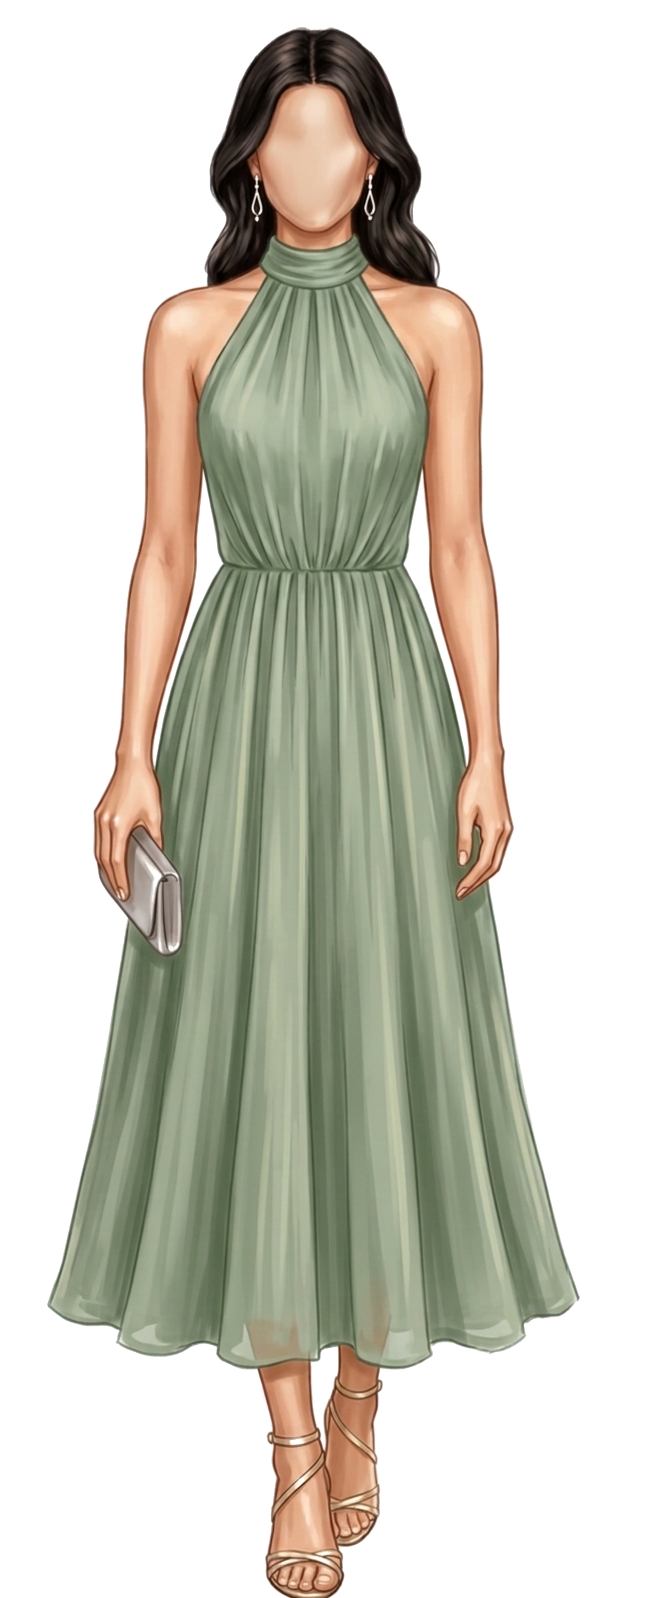
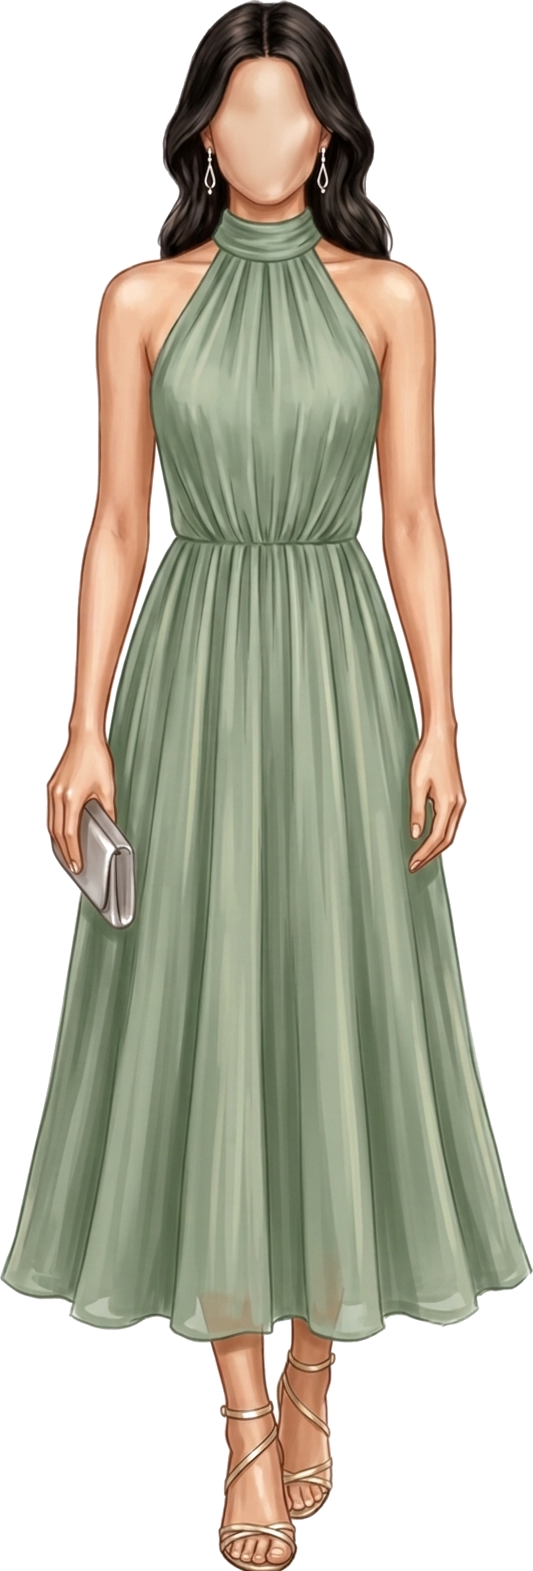
fix: figuras del dress code simetricas (recorte al contorno + altura fija)

diff --git a/index.html b/index.html
@@ -359,8 +359,8 @@ section > *{position:relative;z-index:1;}
 .dc-title{font-family:'Great Vibes',cursive;font-size:50px;color:var(--dark);text-align:center;line-height:1.05;margin-bottom:8px;}
 .dc-subtitle{font-family:'Cormorant Garamond',serif;font-style:italic;font-weight:600;font-size:16px;letter-spacing:5px;text-transform:uppercase;color:var(--accent);text-align:center;margin-bottom:30px;}
 .dc-figures{display:flex;justify-content:center;align-items:flex-end;gap:18px;margin:0 auto 14px;max-width:340px;}
-.dc-fig{display:flex;flex-direction:column;align-items:center;gap:12px;flex:1;}
-.dc-fig img,.dc-fig svg{width:100%;max-width:148px;height:auto;filter:drop-shadow(0 10px 18px rgba(30,58,138,.20));}
+.dc-fig{display:flex;flex-direction:column;align-items:center;justify-content:flex-end;gap:12px;flex:1;min-width:0;}
+.dc-fig img,.dc-fig svg{height:clamp(210px,54vw,268px);width:auto;max-width:100%;object-fit:contain;object-position:bottom center;filter:drop-shadow(0 10px 18px rgba(30,58,138,.20));}
 .dc-fig-label{font-family:'Cormorant Garamond',serif;font-style:italic;font-weight:600;font-size:13px;letter-spacing:3px;text-transform:uppercase;color:var(--dark);}
 .dc-avoid{display:flex;flex-direction:column;align-items:center;gap:10px;margin-top:26px;}
 .dc-avoid-lbl{font-family:'Lato',sans-serif;font-size:10px;letter-spacing:.34em;text-transform:uppercase;color:#7d6210;font-weight:700;}
